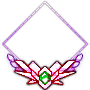
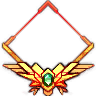
update laurels

diff --git a/TCC.Core/Controls/RaidMember.xaml b/TCC.Core/Controls/RaidMember.xaml
@@ -299,15 +299,15 @@
 
 
             <Image  Opacity="1" x:Name="LaurelImage" 
+                    Margin="-3" 
                     Source="{Binding Laurel, Converter={StaticResource Converters.LaurelToImage}, ConverterParameter=kr}" 
-                    Margin="-4" 
                     RenderOptions.BitmapScalingMode="Linear" 
                     UseLayoutRounding="True" 
                     HorizontalAlignment="Center" 
                     VerticalAlignment="Stretch"
                     Stretch="Uniform" >
                 <Image.RenderTransform>
-                    <TranslateTransform Y="2.2"/>
+                    <TranslateTransform Y="1" X="-.5"/>
                 </Image.RenderTransform>
             </Image>
             <Grid  Width="13" Height="13" Margin="0 0 0 0"
@@ -352,7 +352,6 @@
                   Effect="{StaticResource ClassIconGlow}" 
                   UseLayoutRounding="True"
                     RenderOptions.BitmapScalingMode="HighQuality" 
-                  
             >
                 <Path.RenderTransform>
                     <TranslateTransform Y="0"></TranslateTransform>

diff --git a/TCC.Core/Controls/BossGage.xaml b/TCC.Core/Controls/BossGage.xaml
@@ -151,12 +151,13 @@
                         </Border.RenderTransform>
                     </Border>
 
-                    <Image Stretch="Uniform" VerticalAlignment="Center" Margin="-10" Width="56" RenderTransformOrigin=".5 .5"
-                           Source="{Binding Converter={StaticResource LaurelConverter}}">
+                    <Image Stretch="Uniform" VerticalAlignment="Center" Margin="-14" Width="60" RenderTransformOrigin=".5 .5"
+                           Source="{Binding Converter={StaticResource LaurelConverter}}"
+                           >
                         <Image.RenderTransform>
                             <TransformGroup>
                                 <ScaleTransform ScaleY="1"></ScaleTransform>
-                                <TranslateTransform Y="18" X="0"/>
+                                <TranslateTransform Y="18.5" X="0"/>
                             </TransformGroup>
                         </Image.RenderTransform>
                     </Image>

diff --git a/TCC.Core/Controls/PartyMember.xaml b/TCC.Core/Controls/PartyMember.xaml
@@ -300,15 +300,16 @@
 
 
             <Image  Opacity="1" x:Name="LaurelImage" 
+                    Margin="-7" 
                     Source="{Binding Laurel, Converter={StaticResource Converters.LaurelToImage}, ConverterParameter=kr}" 
-                    Margin="-4" 
+                    
                     RenderOptions.BitmapScalingMode="Linear" 
                     UseLayoutRounding="True" 
                     HorizontalAlignment="Center" 
                     VerticalAlignment="Stretch"
                     Stretch="Uniform" >
                 <Image.RenderTransform>
-                    <TranslateTransform Y="2.2"/>
+                    <TranslateTransform Y="1" X="-.6"/>
                 </Image.RenderTransform>
             </Image>
             <Grid  Width="13" Height="13" Margin="0 0 0 0"

diff --git a/TCC.Core/Windows/CharacterWindow.xaml b/TCC.Core/Windows/CharacterWindow.xaml
@@ -567,8 +567,9 @@
                     </Grid>
 
                     <Image Source="../resources/images/char_window_fg.png" Stretch="Uniform"/>
-                    <Image Source="{Binding Instance.Player.Laurel, Converter={StaticResource Converters.LaurelToImage}, ConverterParameter=kr.big}"
-                           Margin="0 0 0 0"/>
+                    <Image Opacity="1"
+                        Source="{Binding Instance.Player.Laurel, Converter={StaticResource Converters.LaurelToImage}, ConverterParameter=kr.big}"
+                           Margin="-3 -2 -3 -4"/>
                     <Path Data="{Binding Instance.Player.Class, Converter={StaticResource Converters.ClassToSvg}}" 
                       HorizontalAlignment="Center" 
                       Fill="#eee" 

diff --git a/TCC.Core/Converters/BossToLaurelConverter.cs b/TCC.Core/Converters/BossToLaurelConverter.cs
@@ -49,11 +49,12 @@ namespace TCC.Converters
                     if (npc.TemplateId == 1000 || npc.TemplateId == 1001) laurel = "bronze";
                     else if (npc.TemplateId == 2000 || npc.TemplateId == 1002) laurel = "silver";
                     else if (npc.TemplateId == 3000 || npc.TemplateId == 1003) laurel = "gold";
+                    else if (npc.TemplateId == 4000) laurel = "diamond";
                     break;
             }
 
 
-
+            if (laurel == "") return null;
             return "../resources/images/Icon_Laurels/" + laurel + "_kr_big.png";
 
 
